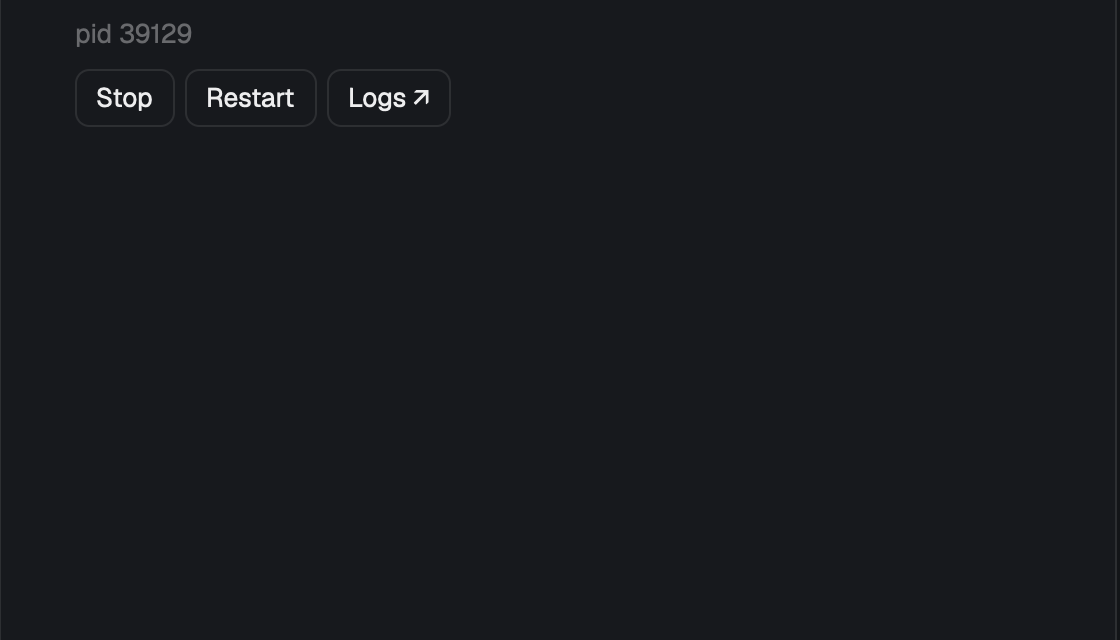
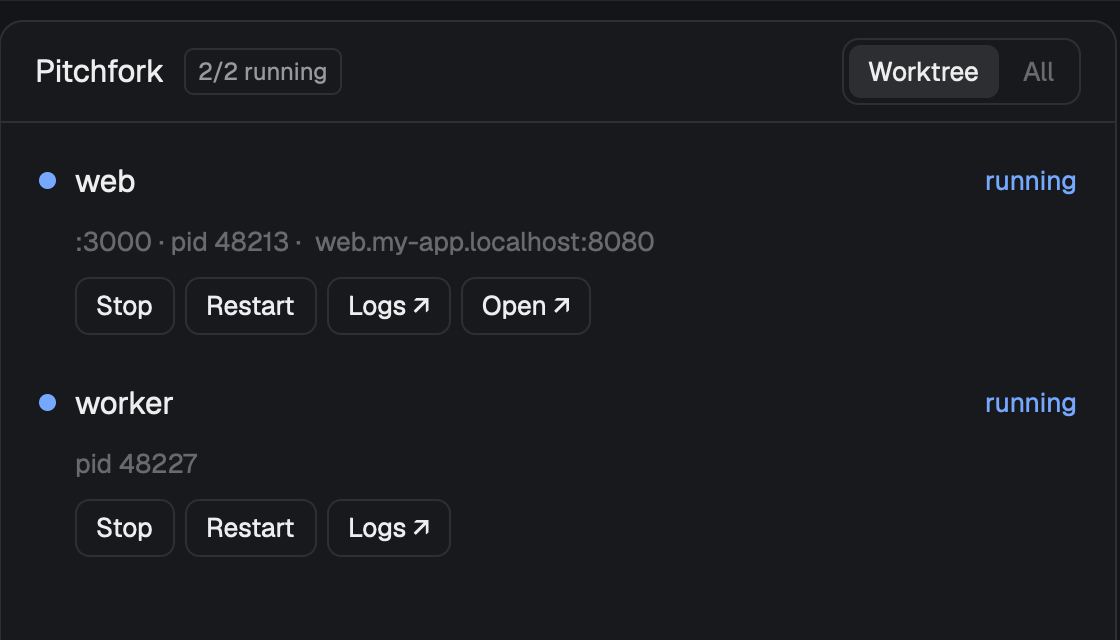
Use generic preview, add dev reload script

diff --git a/README.md b/README.md
@@ -27,6 +27,8 @@ No keys are bound. Bind `pitchfork.start`, `stop`, `restart`, `logs`, `open`, `n
 
 ## Develop
 
+Herdr doesn't notice edits through a symlinked mod folder. Run `node scripts/dev.mjs` while you work: it touches the link on every save so Herdr reloads. After a `git pull`, run `touch -h ~/.config/herdr-app/mods/pitchfork`.
+
 ```sh
 herdr-app check ~/.config/herdr-app/mods/pitchfork
 node --test tests/*.test.mjs
